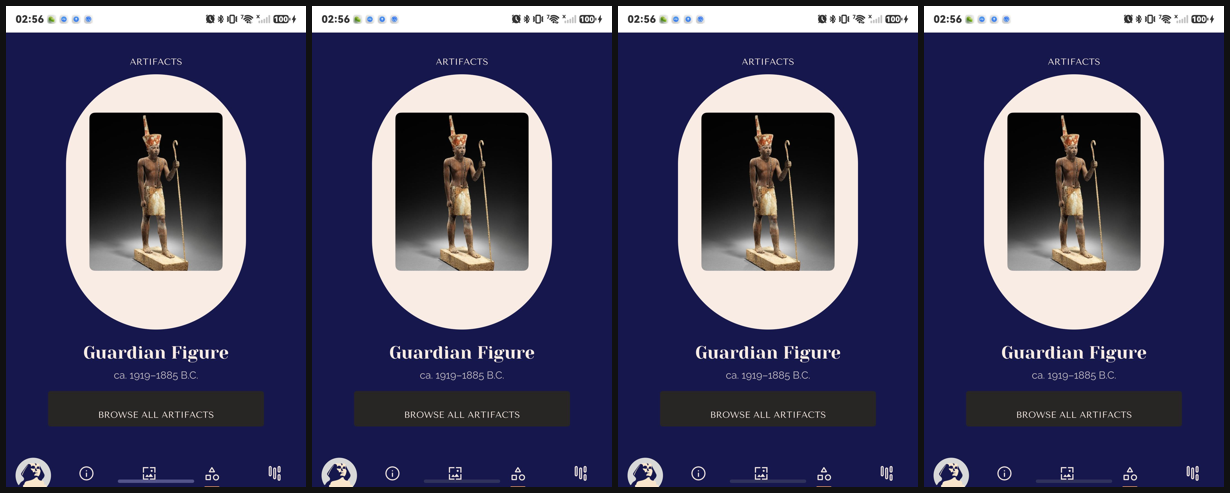
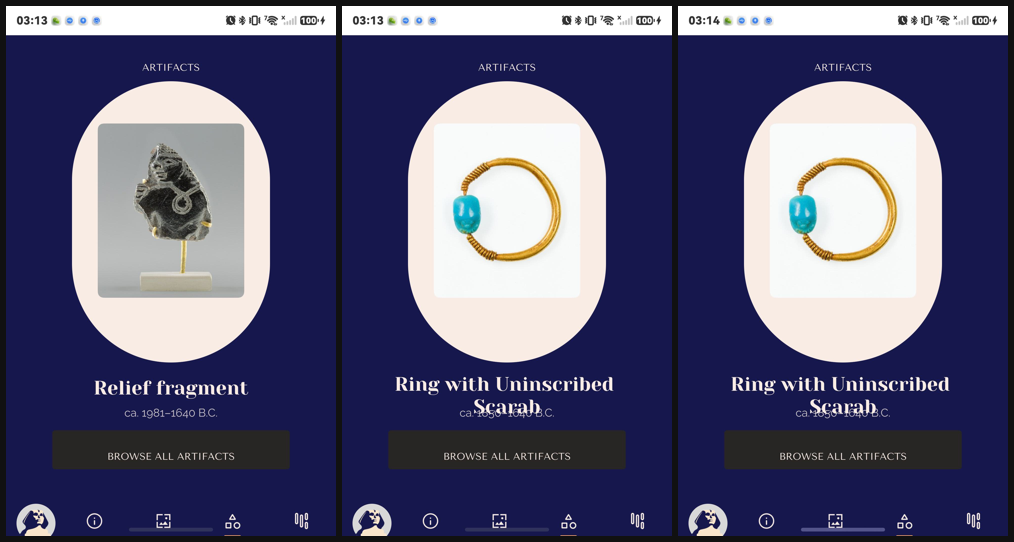
Wonderous: the artifact carousel pages, and every tab target is built
The details screen was still building its tab bar overlay by hand; an earlier
edit meant to route it through `hits` had not matched, so it never went through
the shared path and never logged. Routing it properly showed the truth at once:

    wonders/hits: 7 target(s) in 2 band(s)
    hit 7370: x 0..220      carousel, previous
    hit 7371: x 220..440    carousel, next
    hit 7210: x 0..72       the wonder portrait
    hit 7200: x 72..164     information
    hit 7201: x 164..256    photos
    hit 7202: x 256..348    artifacts
    hit 7203: x 348..440    events

All seven, contiguous, no gaps. Paging the carousel now works on device:
"Relief fragment, ca. 1981-1640 B.C." -> "Ring with Uninscribed Scarab".

Four rounds of probing tap coordinates found nothing here. One line reporting
what the overlay actually contained found it immediately, and it was not
geometry at all -- it was a code path that had silently not been replaced.

Also: a two-line artifact name printed straight through the date, because the
caption reserved one line of height. It now reserves two when the name is long
enough to wrap.

diff --git a/crates/splash-oh-native/src/wonders/details.rs b/crates/splash-oh-native/src/wonders/details.rs
@@ -117,26 +117,28 @@ pub fn build(index: usize, tab: usize, w: f32, h: f32) -> Option<Node> {
     }
     root =
         root.child(tabbar::build(wonder, tab, w)?.f32v_attr(attr::position(), &[0.0, h - bar_h]));
-    // The bar draws correctly and receives nothing on its own: a target nested
-    // in a positioned Row inside a Stack is not hit-tested. The cells therefore
-    // live in one overlay row, laid out rather than positioned, so their layout
-    // boxes are where they appear.
+    // One overlay for the whole screen: the bar's cells and, on the artifacts
+    // tab, the carousel's paging halves. Two overlays means the later one wins
+    // and the earlier is dead — which is how the bar ate every carousel tap.
     let d = 52.0;
     let cell = (w - d - 20.0) / tabbar::TABS.len() as f32;
-    let mut overlay = col(w, h, 0x00000000)?;
-    overlay = overlay.child(spacer(w, h - bar_h)?);
-    let mut line = row(w, bar_h, 0x00000000)?;
-    line = line.child(tap_col(d + 20.0, bar_h, 0x00000000, tabbar::HOME_TAP)?);
+    let mut targets: Vec<(f32, f32, f32, f32, i32)> =
+        vec![(0.0, h - bar_h, d + 20.0, bar_h, tabbar::HOME_TAP)];
     for i in 0..tabbar::TABS.len() {
-        line = line.child(tap_col(
+        targets.push((
+            d + 20.0 + cell * i as f32,
+            h - bar_h,
             cell,
             bar_h,
-            0x00000000,
             tabbar::TAB_BASE + i as i32,
-        )?);
+        ));
     }
-    overlay = overlay.child(line);
-    root = root.child(overlay);
+    if tab == 2 {
+        let (ay, ah) = artifact_arch(w, h - bar_h);
+        targets.push((0.0, ay, w * 0.5, ah, ARTIFACT_PREV));
+        targets.push((w * 0.5, ay, w * 0.5, ah, ARTIFACT_NEXT));
+    }
+    root = root.child(super::hits(w, h, &targets)?);
     Some(root)
 }
 
@@ -399,9 +401,18 @@ fn artifacts(wonder: &Wonder, index: usize, sel: usize, w: f32, h: f32) -> Optio
     );
 
     // Name and date, which is what the reference screen leads with.
-    let mut cap = col(w, 110.0, 0x00000000)?.f32v_attr(attr::position(), &[0.0, ay + ah + 14.0]);
+    // Two lines of room: "Ring with Uninscribed Scarab" wraps, and at one line
+    // of height the second line printed straight through the date.
+    let title_lines = if art.title.chars().count() > 22 {
+        2.0
+    } else {
+        1.0
+    };
+    let title_h = 34.0 * title_lines;
+    let mut cap =
+        col(w, title_h + 40.0, 0x00000000)?.f32v_attr(attr::position(), &[0.0, ay + ah + 12.0]);
     cap = cap.child(
-        text(art.title, 26.0, SHEET, w - 40.0, 40.0)?
+        text(art.title, 24.0, SHEET, w - 40.0, title_h)?
             .string_attr(attr::font_family(), DISPLAY)
             .i32_attr(attr::text_align(), 1)
             .f32v_attr(attr::padding(), &[0.0, 20.0, 0.0, 20.0]),
@@ -417,7 +428,7 @@ fn artifacts(wonder: &Wonder, index: usize, sel: usize, w: f32, h: f32) -> Optio
     let (d, gap) = (7.0, 10.0);
     let total = list.len() as f32 * d + (list.len() as f32 - 1.0) * gap;
     let mut dots = row(w, 24.0, 0x00000000)?
-        .f32v_attr(attr::position(), &[0.0, ay + ah + 118.0])
+        .f32v_attr(attr::position(), &[0.0, ay + ah + title_h + 56.0])
         .f32v_attr(attr::padding(), &[8.0, 0.0, 0.0, (w - total) / 2.0]);
     for i in 0..list.len() {
         dots = dots.child(
